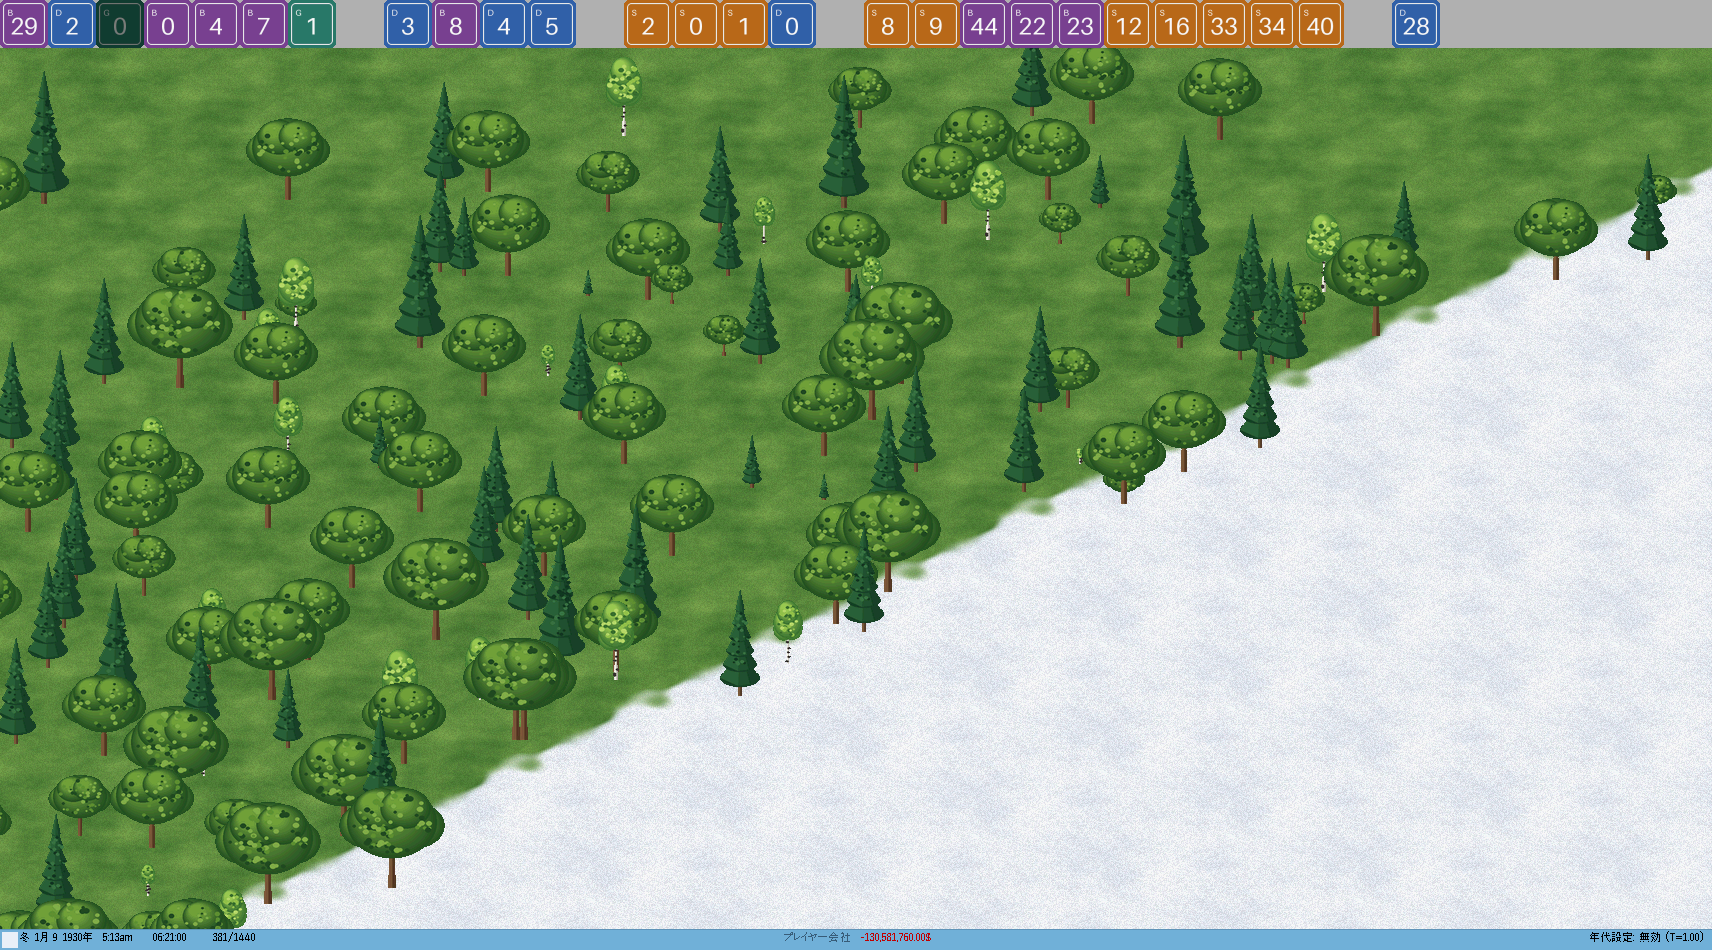
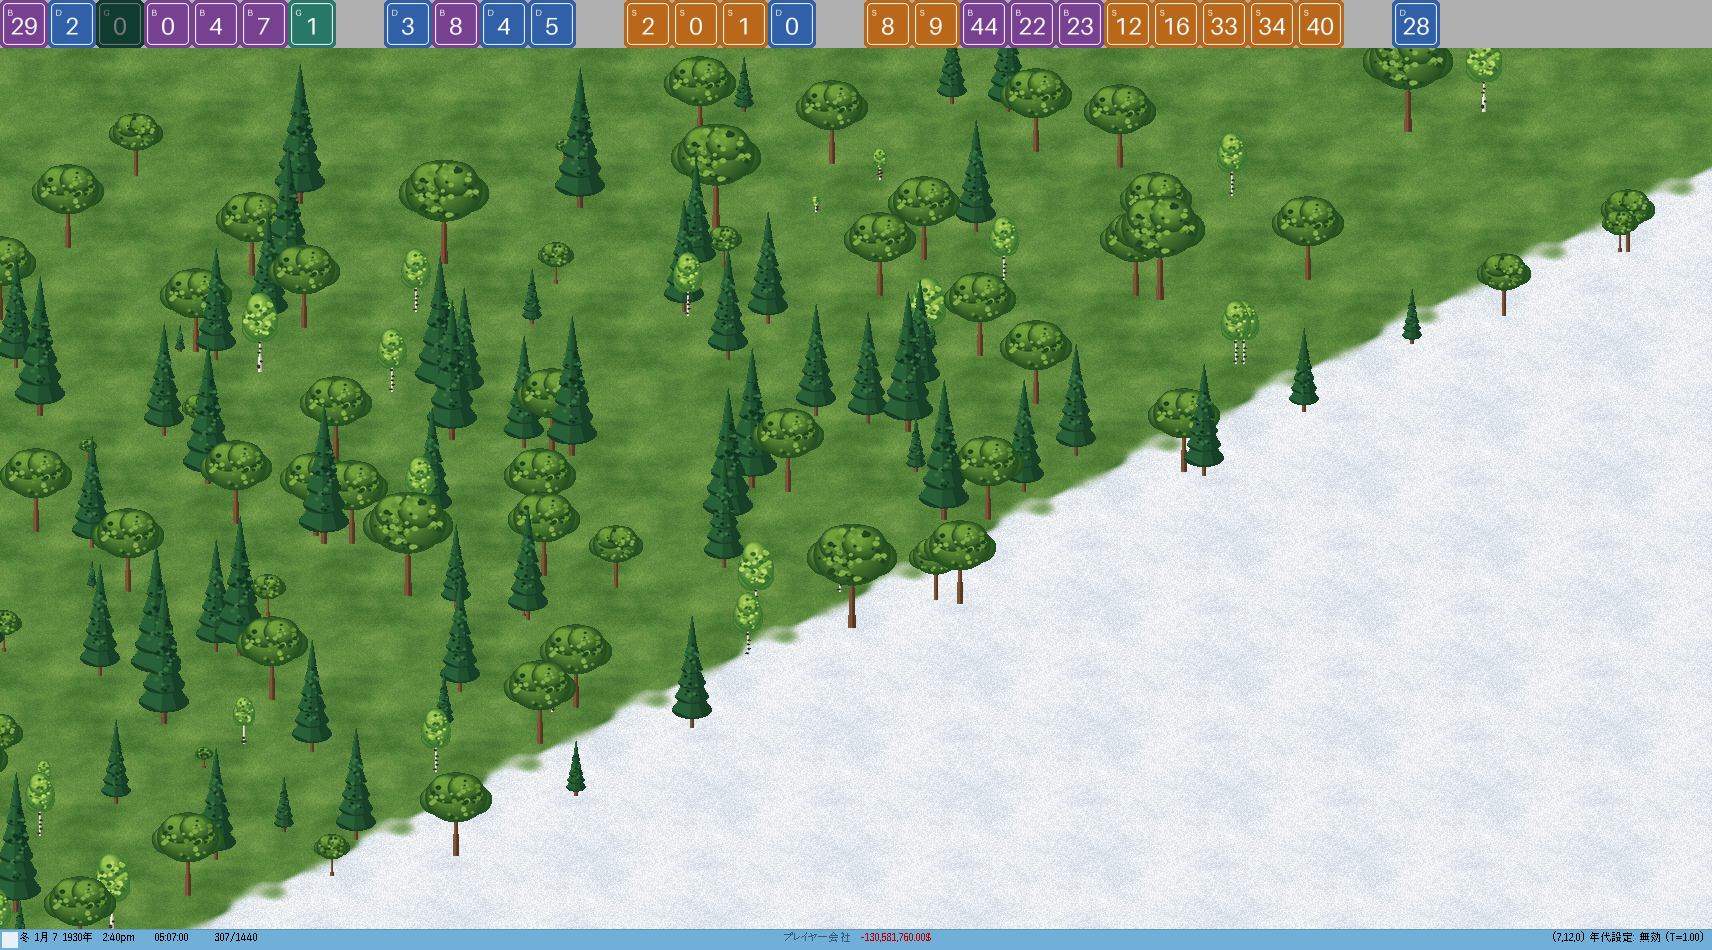
レビューの指摘を直す: 絵の寸法を表に合わせ、縮尺の説明・参照の残りを直す (#9)

diff --git a/objects/scenery/temperate_trees/draw_trees.py b/objects/scenery/temperate_trees/draw_trees.py
@@ -1,4 +1,4 @@
-"""温帯の木 3 種の絵と表を書き出す（docs/trees.md）。絵は仮（数式で描いた物）で、見た目は後から描き直す。
+"""温帯の木 3 種の絵と表を書き出す（docs/trees.md）。MIT License。絵は仮（数式で描いた物）で、見た目は後から描き直す。
 
 - 種類: ケヤキ風の広葉樹（zelkova）、スギ風の針葉樹（cedar）、シラカバ風の細い広葉樹（birch）
 - 縮尺（docs/concept.md の 3 章 C）: 1 タイル = 16 単位 × 1.65m = 26.4m。256px のタイルの菱形から、
@@ -104,13 +104,13 @@ def speckle(cv, rng, cx, cy, rx, ry, n, size, colors):
 
 
 def draw_zelkova(cv, k, rng):
-    """広葉樹。幹の上に、大きな樹冠（球をいくつか重ねる）。樹冠の幅は高さの 0.75 倍ほど。"""
+    """広葉樹。幹の上に、大きな樹冠（球をいくつか重ねる）。樹冠の幅は 13m ほど。"""
     h = SPECIES["zelkova"]["height"] * k
     H = h * PX_H
     trunk(cv, H * 0.42, max(3, 1.0 * PX_W * k * 1.1), (84, 58, 38), (122, 88, 58))
     x, y = BASE
-    cr = 6.5 * k * PX_W  # 樹冠の半径（横）
-    cz = 0.62 * H  # 樹冠の中心の高さ
+    cr = 5.6 * k * PX_W  # 樹冠の半径（横。球の端まで入れた幅が 13m ほどになる）
+    cz = 0.69 * H  # 樹冠の中心の高さ
     ry = cr * 0.80
     blobs = [(0.0, 0.0, 1.0), (-0.55, 0.1, 0.62), (0.55, 0.1, 0.62), (-0.25, -0.35, 0.6), (0.3, -0.38, 0.56), (0.0, 0.3, 0.55)]
     blobs.sort(key=lambda b: b[1] * -1)
@@ -132,7 +132,7 @@ def draw_cedar(cv, k, rng):
         t = i / (tiers - 1)
         z0 = H * (0.16 + 0.60 * t)  # 段の下の縁の高さ
         w = cr * (1.0 - 0.78 * t)
-        top = z0 + H * 0.26 * (1.0 - 0.30 * t)
+        top = z0 + H * 0.275 * (1.0 - 0.127 * t)  # 一番上の段の頂点が H に届く
         base_y = y - z0
         # 円錐: 頂点・左右の縁・下の縁の楕円
         apex = (x, y - top)
@@ -193,9 +193,10 @@ def table(species):
 
 
 def main():
+    heights = "・".join(f"{k} {v['height']:g}m" for k, v in SPECIES.items())
     header = (
         "# 温帯の木（絵は仮）。この表と PNG は draw_trees.py が書き出す。直すときはスクリプトを直して流し直す。\n"
-        "# 1 タイル = 26.4m の縮尺で、成木の高さは 広葉樹 18m・針葉樹 24m・シラカバ 14m（docs/trees.md）。\n"
+        f"# 1 タイル = 26.4m の縮尺で、成木の高さは {heights}（docs/trees.md）。\n"
     )
     for species in SPECIES:
         sheet(species).save(os.path.join(HERE, f"{species}.png"))

diff --git a/docs/records/2026-11-25_tree-screens.md b/docs/records/2026-11-25_tree-screens.md
@@ -13,11 +13,12 @@
 
 | 画像 | 場所 | 見所 |
 |---|---|---|
-| `1_forest.png` | 保存データ `flat_512_left_v64`、中心 (255, 255)、等倍の拡大 3 | 3 種（広葉樹・針葉樹・シラカバ）と、育ちの違う木が混ざって生える。右下の白い所は、この保存データの雪の地面（木は温帯の地面だけに生える） |
+| `1_forest.png` | 保存データ `flat_512_left_v64`、中心 (255, 255)、`gui.set_zoom(3)` | 3 種（広葉樹・針葉樹・シラカバ）と、育ちの違う木が混ざって生える。右下の白い所は、この保存データの雪の地面（木は温帯の地面だけに生える） |
 
 ## 確かめていないこと
 
 - 新しい地図の作成（地図の新規作成の画面）で、木が自然に生えること。森を作る処理と同じ関数を使うが、地図の作成画面は通していない。
 - 木が育つ（`age` が上がる）様子。木の大きさの違いは、森の画像に混ざった若木で見ただけ。
+- 大きな森での描画の重さと、木の数の設定（`max_no_of_trees_on_square`、[config.md](../config.md)）。
 - 季節（冬など）の絵。`seasons=1` なので、冬も同じ絵で出る。
 - 車両・建物と並べた大きさの釣り合い（車両が未着手）。

diff --git a/docs/trees.md b/docs/trees.md
@@ -14,7 +14,7 @@
 
 ## 縮尺
 
-[concept.md](concept.md) の 3 章 C の決定（実物比例。1 単位 = 1.65m、1 タイル = 16 単位 = 26.4m）による。256px のタイルの菱形（幅 256）から、地面の距離は 1m ≒ 6.9px、高さは 1m ≒ 5.9px（2:1 の斜め上からの見え方で、高さは 0.866 倍）として描いた。この値は計算で決めた物で、車両の絵とは並べて確かめていない（車両ができたら、並べて撮って直す）。
+[concept.md](concept.md) の 3 章 C の決定（実物比例。1 単位 = 1.65m、1 タイル = 16 単位 = 26.4m）による。ただし換算の 1.65m は「まず試す値」（concept.md）で、確定ではない。菱形の幅 256px はタイルの辺ではなく対角線（26.4×√2 ≒ 37.3m）に当たるので、地面の距離は 1m ≒ 6.86px、高さは 1m ≒ 5.9px（2:1 の斜め上からの見え方で、高さは 0.866 倍。6.86×0.866 ≒ 5.94）として描いた。高さの 18m・24m・14m は出典のある値ではなく、見栄えと実物の目安から決めた代表値（スギは実際はもっと高くなる）。この値は計算で決めた物で、車両の絵とは並べて確かめていない（車両ができたら、並べて撮って直す）。
 
 ## 絵の形
 

diff --git a/docs/layout.md b/docs/layout.md
@@ -55,10 +55,10 @@ ci.env                CI の道具の版（makeobj など）
 
   ```yaml
   obj: tree
-  name: pak256_sample
+  name: pak256_zelkova
   copyright: pak256.LongScale チーム
-  image:              # image[0][0]=sample_marker.0.0 になる
-    0: {0: sample_marker.0.0}
+  image:              # image[0][0]=zelkova.0.0 になる
+    0: {0: zelkova.0.0}
   freight: [a, b]     # freight[0]=a、freight[1]=b になる
   ```
 
